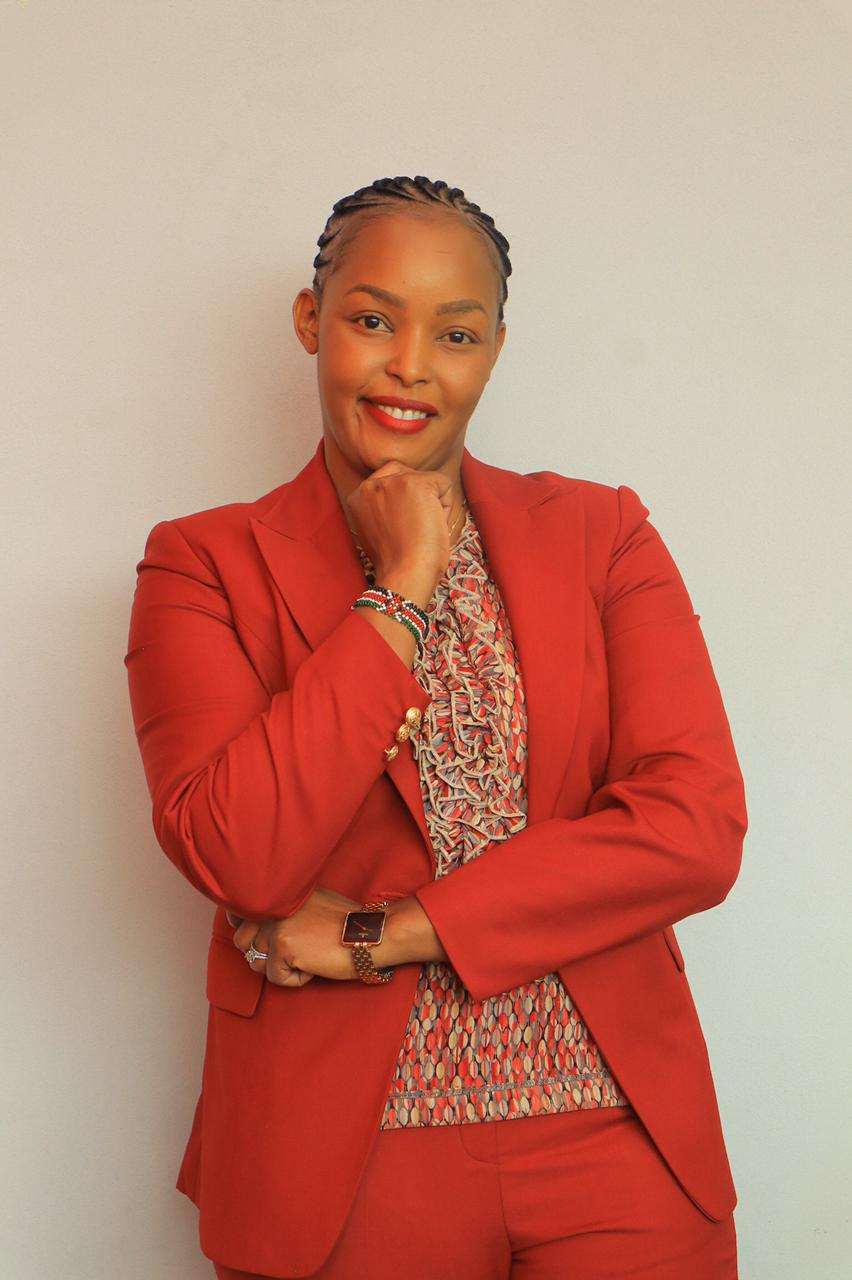
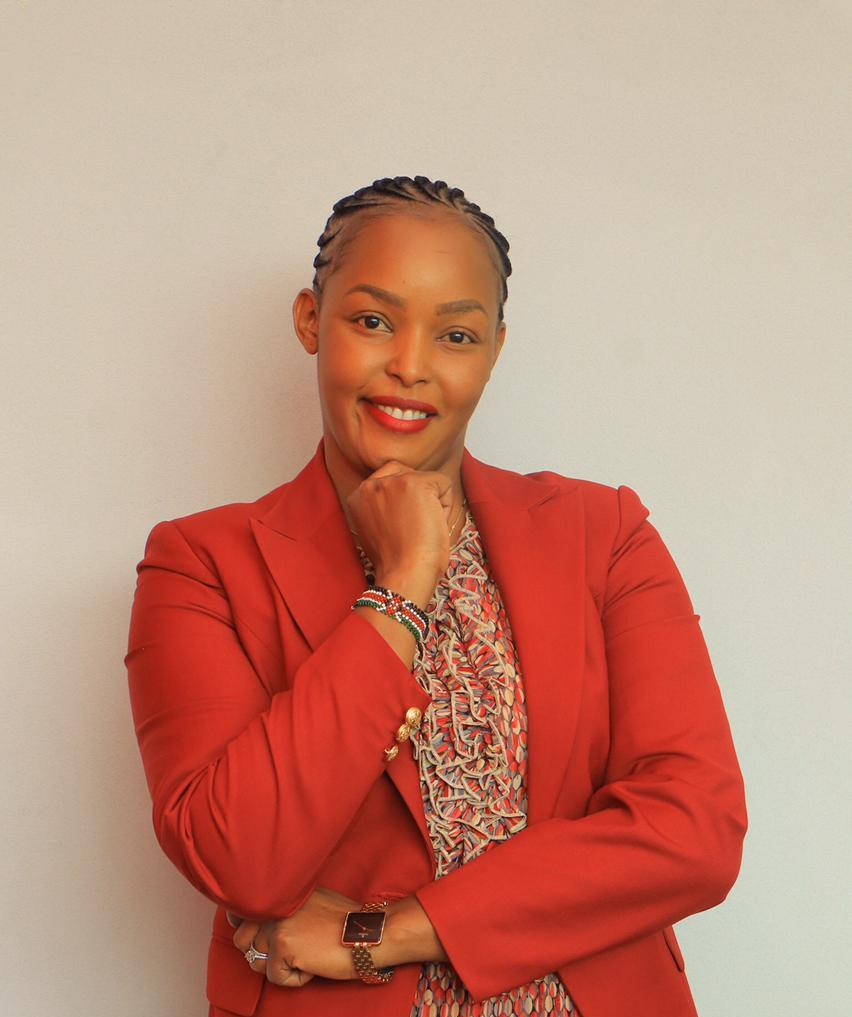
last

diff --git a/src/components/Intro.js b/src/components/Intro.js
@@ -21,7 +21,7 @@ const Intro = () => {
             <img
               src={img1}
               alt="CEO Image 1"
-              className="rounded-xl border h-auto w-auto object-cover shadow-xl transform scale-110" // Scale image
+              className="rounded-xl border h-[380px] w-[380px] object-cover shadow-xl"
             />
             <span className="text-gray-900 font-bold text-xl mt-2">
               SANGALO EDWIN ETARUKOT
@@ -36,7 +36,7 @@ const Intro = () => {
             <img
               src={img2}
               alt="CEO Image 2"
-              className="rounded-xl border h-[400px] w-[400px] object-cover object-center shadow-xl"
+              className="rounded-xl border h-[360px] w-[360px] object-cover shadow-xl"
             />
             <span className="text-gray-900 font-bold text-xl mt-2 uppercase">
               COLLEEN ROTICH
